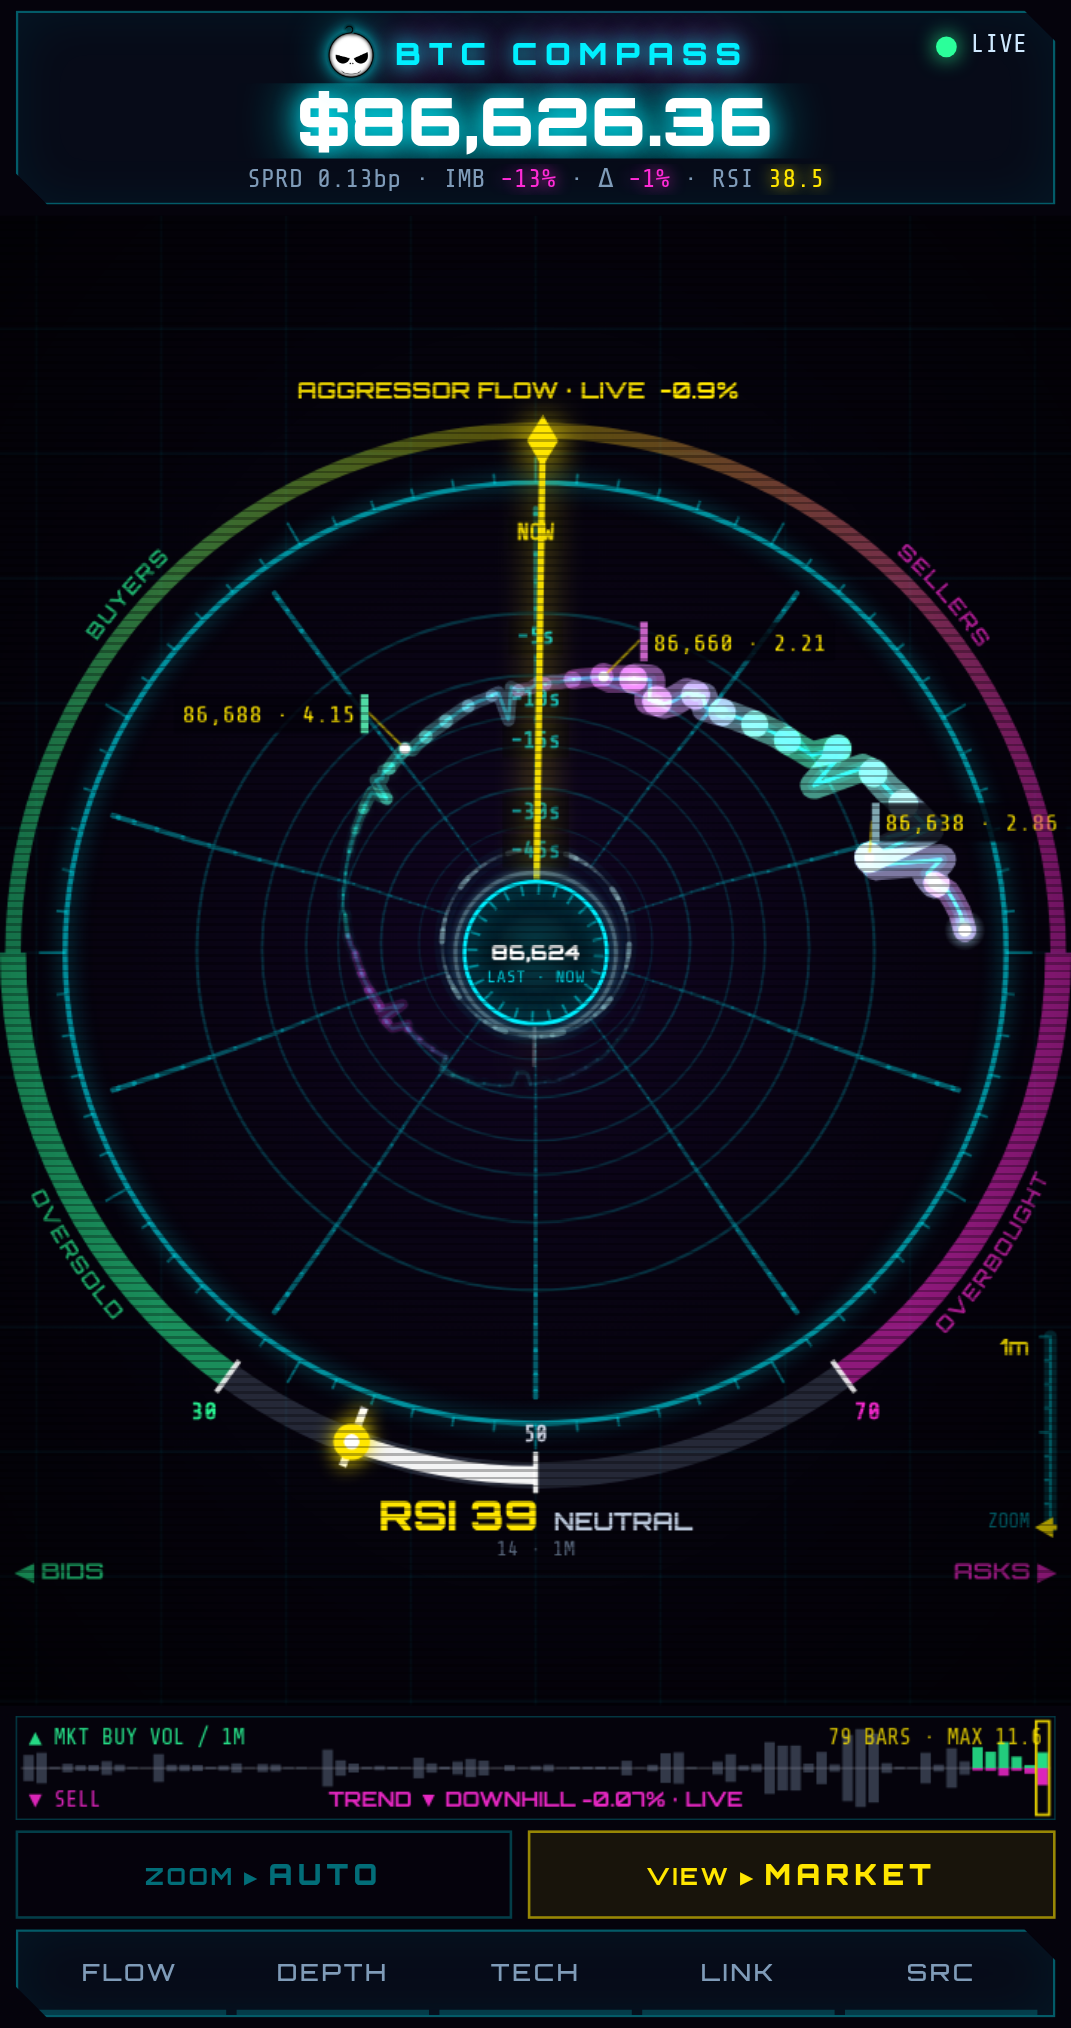
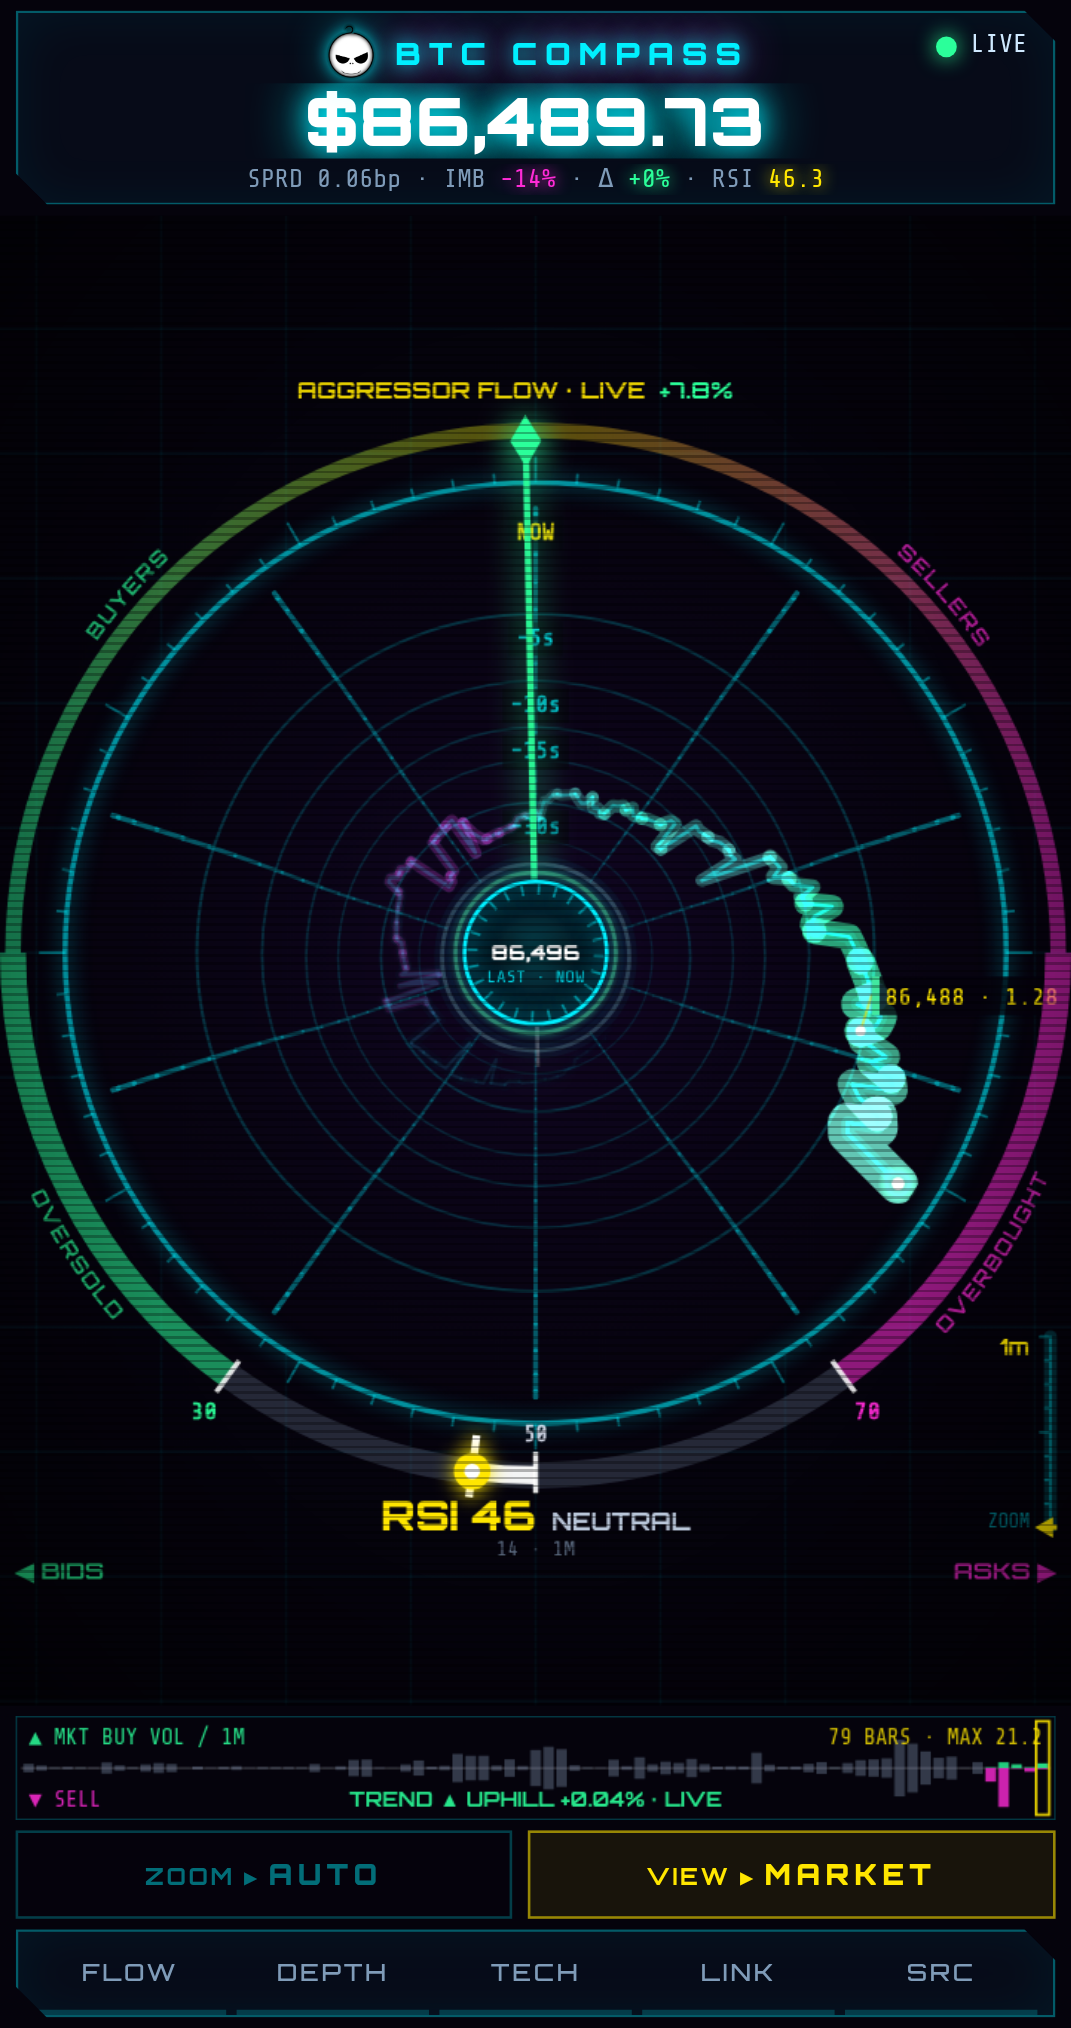
MARKET vortex ring: fixed size at all zooms (pinned to window end), smooth solid glow + soft CCW sweep; cache-busting build check

diff --git a/index.html b/index.html
@@ -2,6 +2,8 @@
 <html lang="en">
 <head>
 <meta charset="utf-8">
+<meta http-equiv="Cache-Control" content="no-cache, no-store, must-revalidate"><meta http-equiv="Pragma" content="no-cache"><meta http-equiv="Expires" content="0">
+<script>window.OFC_BUILD='20261002-1009';(function(){try{if(!/^https?:/.test(location.protocol))return;fetch(location.pathname+'?_='+Date.now(),{cache:'no-store'}).then(r=>r.text()).then(t=>{const m=t.match(/OFC_BUILD='([^']+)'/);if(m&&m[1]!==window.OFC_BUILD&&sessionStorage.getItem('ofcB')!==m[1]){sessionStorage.setItem('ofcB',m[1]);location.replace(location.pathname+'?v='+m[1]+location.hash);}}).catch(()=>{});}catch(e){}})();</script>
 <meta name="viewport" content="width=device-width,initial-scale=1,viewport-fit=cover,user-scalable=no">
 <meta name="theme-color" content="#05030c">
 <meta name="color-scheme" content="dark">
@@ -761,26 +763,23 @@ function drawGrid(t){
   ctx.font='10px "Share Tech Mono",monospace';ctx.textAlign='left';
   const MK=VIEW==='market', RINGS=MK?mRingAges().map(a=>({d:a*HIST_SEC/MWIN,maj:[30,60,90,120].includes(a)||a===mRingAges().slice(-1)[0]}))
                                   :Array.from({length:12},(_,i)=>({d:(i+1)*10,maj:(i+1)%3===0}));
-  for(const RG of RINGS){if(MK&&RG===RINGS[RINGS.length-1])continue;const p=proj(RG.d),s=p.s,fade=Math.pow(s,0.8);
+  for(const RG of RINGS){if(MK&&RG.d>HIST_SEC-1)continue;const p=proj(RG.d),s=p.s,fade=Math.pow(s,0.8);
     if(Q>0){ctx.strokeStyle=`rgba(0,240,255,${0.03+0.06*fade})`;ctx.lineWidth=2+6*s;ctx.beginPath();ctx.arc(p.x,p.y,TR*s,0,Math.PI*2);ctx.stroke();}
     ctx.strokeStyle=`rgba(0,240,255,${0.05+(RG.maj?0.30:0.18)*fade})`;ctx.lineWidth=0.5+(RG.maj?1.4:0.9)*s;
     ctx.beginPath();ctx.arc(p.x,p.y,TR*s,0,Math.PI*2);ctx.stroke();
   }
-  if(MK&&RINGS.length){ // vortex: innermost ring glows + spins (comet-dash texture); spin ramps with zoom: ~0 at 60 s -> slight at 15 s / burst, eased
-    const RG=RINGS[RINGS.length-1],p=proj(RG.d),rr=TR*p.s, TAU=Math.PI*2;   // fixed size (no shrink)
-    const g=VSP.w, k=(0.6+0.4*g)*(0.85+0.15*Math.sin(t/300));
-    ctx.save();ctx.lineCap='round';ctx.shadowColor='rgba(0,240,255,1)';ctx.shadowBlur=Q>0?14+8*g:0;
+  if(MK){ // vortex: smooth solid glowing ring pinned at the window end (constant depth d=HIST_SEC -> same on-screen size at every zoom 60 s..15 s / burst);
+    // spin shown by a soft brighter arc sweeping counter-clockwise (speed/brightness ramp with VSP.w); no dots/dashes
+    const p=proj(HIST_SEC),rr=TR*p.s, TAU=Math.PI*2;
+    const g=VSP.w, k=(0.6+0.4*g)*(0.88+0.12*Math.sin(t/400));
+    ctx.save();ctx.lineCap='butt';ctx.shadowColor='rgba(0,240,255,1)';ctx.shadowBlur=Q>0?14+8*g:0;
     ctx.strokeStyle=`rgba(0,240,255,${(0.10*k).toFixed(3)})`;ctx.lineWidth=6+3*g;ctx.beginPath();ctx.arc(p.x,p.y,rr,0,TAU);ctx.stroke();       // soft halo
-    ctx.strokeStyle=`rgba(170,250,255,${(0.32*k).toFixed(3)})`;ctx.lineWidth=1.3+0.5*g;ctx.beginPath();ctx.arc(p.x,p.y,rr,0,TAU);ctx.stroke();  // base ring
-    const N=10, seg=Math.min(0.12,14/Math.max(20,rr));            // comet dashes: bright head, tail trailing behind the motion
-    for(let i=0;i<N;i++){const a0=VSP.ph+i*TAU/N;
-      for(let j=0;j<4;j++){ctx.strokeStyle=`rgba(200,252,255,${(0.9*k*(1-j/4)).toFixed(3)})`;ctx.lineWidth=(2.1+0.9*g)*(1-j*0.15);
-        ctx.beginPath();ctx.arc(p.x,p.y,rr,a0+j*seg,a0+(j+1)*seg);ctx.stroke();}}
-    if(g>0.04){ctx.shadowBlur=0;ctx.lineWidth=1.1;                // subtle inward swirl streaks toward the vanishing point
-      for(let i=0;i<6;i++){const a=VSP.ph*1.35+i*TAU/6;let px0=null,py0=null;
-        for(let q=0;q<=8;q++){const u=q/8,ang=a-u*1.2,rad=rr*(1-0.55*u),x=p.x+Math.cos(ang)*rad,y=p.y+Math.sin(ang)*rad;
-          if(px0!=null){ctx.strokeStyle=`rgba(0,240,255,${(0.28*g*(1-u)).toFixed(3)})`;ctx.beginPath();ctx.moveTo(px0,py0);ctx.lineTo(x,y);ctx.stroke();}
-          px0=x;py0=y;}}}
+    ctx.strokeStyle=`rgba(170,250,255,${(0.42*k).toFixed(3)})`;ctx.lineWidth=1.6+0.5*g;ctx.beginPath();ctx.arc(p.x,p.y,rr,0,TAU);ctx.stroke();  // solid base ring
+    const A=0.15+0.6*g; if(A>0.02){ctx.shadowBlur=Q>0?10+10*g:0;   // two opposed soft sweeps: bright leading edge, long smooth fade behind (CCW motion)
+      const NS2=96;for(let i=0;i<NS2;i++){const a0=i*TAU/NS2,a1=a0+TAU/NS2+0.004,am=(a0+a1)/2;
+        let f=0;for(let h=0;h<2;h++){const dd=(((am-VSP.ph-h*Math.PI)%TAU)+TAU)%TAU;f=Math.max(f,dd<=Math.PI?Math.exp(-dd/0.9):Math.exp(-(TAU-dd)/0.12));}
+        if(f<0.02)continue;ctx.strokeStyle=`rgba(210,253,255,${(A*f*k).toFixed(3)})`;ctx.lineWidth=(1.8+1.2*g)*(0.7+0.3*f);
+        ctx.beginPath();ctx.arc(p.x,p.y,rr,a0,a1);ctx.stroke();}}
     ctx.restore();}
   // time labels at the top of each ring, nearest-first, skipped on collision (hub / earlier label / reserved)
   // MARKET: NOW at the mouth (newest trade) -> older inward.  LIMIT: NOW at the vanishing point -> older outward to the ring.
@@ -1470,7 +1469,7 @@ function frame(){
 connect();seedREST();
 requestAnimationFrame(frame);
 document.addEventListener('visibilitychange',()=>{if(!document.hidden&&(!ws||ws.readyState>1)){backoff=1000;connect();}});
-window.__ofc={get vring(){if(VIEW!=='market')return null;const R=mRingAges(),d=R[R.length-1]*HIST_SEC/MWIN,p=proj(d);return {full:+(RMAX*p.s).toFixed(1),r:+(RMAX*p.s).toFixed(1),x:Math.round(p.x),y:Math.round(p.y),R0:Math.round(R0)}},get twist(){return VIEW==='market'?+(TWIST_MAX*VSP.w*180/Math.PI).toFixed(1):0},get spin(){return {w:+VSP.w.toFixed(3),ph:+VSP.ph.toFixed(3)}},zManual(){intro=null;setAuto(false);syncZA();},get burst(){return {...burst,now:Date.now()}},simBurst(usd){const px=trades.length?trades[trades.length-1].px:mid,n=Date.now();for(let k=0;k<8;k++)trades.push({t:n-(7-k)*300,side:k%2?'sell':'buy',qty:usd/8/px,px,v:'kraken'});trailDirty=true;},get auto(){return rangeAuto},zAuto(){intro=null;setAuto(true);syncZA();},zIn(){intro=null;setAuto(false);rangeFrac=zR(1);syncZA();},get mwin(){return +MWIN.toFixed(1)},get lwin(){return +LWIN.toFixed(1)},get prange(){return PRANGE},get disp(){return dispRange},get plbl(){return PLBL.map(q=>q.txt)},get hubTxt(){return mid?hubTxt():null},get head(){return {x:Math.round(TRHEAD.x),y:Math.round(TRHEAD.y),CX,CY,R0:Math.round(R0),RMAX:Math.round(RMAX)}},get logo(){const g=logoGeom();return g&&{x:Math.round(g.x),y:Math.round(g.y),S:g.S,CX,CY,RMAX,W,H,Z:zbarGeom()}},get ven(){return Object.fromEntries(Object.entries(VEN).map(([k,v])=>[k,{st:v.st,share:+v.share.toFixed(3),books:BOOKS.filter(B=>B.v===k).map(B=>({k:B.k,ready:B.ready,n:B.b.size+B.a.size,ck:B.ckOk,ckBad:B.ckBad,resyncs:B.resyncs}))}]))},get src(){return SRC},setSource,get comb(){return {ready:BREADY,mid,bestBid,bestAsk,nb:sortedB.length,na:sortedA.length}},get raw(){return RAW.length},get flow(){const f=flow(30);return {b:Math.round(f.b),s:Math.round(f.s),r:+f.r.toFixed(3)}},get trendW(){return trendWin()},get win(){return winSec},get heatN(){return Object.fromEntries(Object.entries(HEATS).map(([w,H])=>[w,H.m.size]))},get intro(){return intro},book,get mid(){return mid},get ck(){return {ckOk,ckBad,ckLast}},get trades(){return tradeCount},get bubbles(){return bubbles.length},get hist(){return history.length},get ind(){return ind},get candles(){return candles.size},get dir(){return INBOUND?'in':'out'},get view(){return VIEW},get layout(){return {W,H,CX,CY,RMAX,R0,WIDE}},get tunnel(){const far=proj(HIST_SEC);return {FOCAL,farScale:far.s,farY:far.y-CY,dispRange,fitFrac,rangeAuto,RMAX}},zoom(f){setAuto(false);rangeFrac=Math.min(0.08,Math.max(0.0005,rangeFrac*f));},autoZoom(){setAuto(true);},get autoOn(){return rangeAuto},get zgeom(){return zbarGeom()},get conn(){return connState},get fps(){return FPS},get q(){return Q},get rc(){return reconnects},forceDrop(){ws&&ws.close();}};
+window.__ofc={winTo(S){intro=null;setAuto(false);syncZA();let lo=0,hi=1;const f=u=>mWinOf(zR(u));const dec=f(0)>f(1);for(let i=0;i<40;i++){const m=(lo+hi)/2;if((f(m)>S)===dec)lo=m;else hi=m;}rangeFrac=zR((lo+hi)/2);return f((lo+hi)/2);},get vring(){if(VIEW!=='market')return null;const p=proj(HIST_SEC);return {full:+(RMAX*p.s).toFixed(1),r:+(RMAX*p.s).toFixed(1),x:Math.round(p.x),y:Math.round(p.y),R0:Math.round(R0)}},get twist(){return VIEW==='market'?+(TWIST_MAX*VSP.w*180/Math.PI).toFixed(1):0},get spin(){return {w:+VSP.w.toFixed(3),ph:+VSP.ph.toFixed(3)}},zManual(){intro=null;setAuto(false);syncZA();},get burst(){return {...burst,now:Date.now()}},simBurst(usd){const px=trades.length?trades[trades.length-1].px:mid,n=Date.now();for(let k=0;k<8;k++)trades.push({t:n-(7-k)*300,side:k%2?'sell':'buy',qty:usd/8/px,px,v:'kraken'});trailDirty=true;},get auto(){return rangeAuto},zAuto(){intro=null;setAuto(true);syncZA();},zIn(){intro=null;setAuto(false);rangeFrac=zR(1);syncZA();},get mwin(){return +MWIN.toFixed(1)},get lwin(){return +LWIN.toFixed(1)},get prange(){return PRANGE},get disp(){return dispRange},get plbl(){return PLBL.map(q=>q.txt)},get hubTxt(){return mid?hubTxt():null},get head(){return {x:Math.round(TRHEAD.x),y:Math.round(TRHEAD.y),CX,CY,R0:Math.round(R0),RMAX:Math.round(RMAX)}},get logo(){const g=logoGeom();return g&&{x:Math.round(g.x),y:Math.round(g.y),S:g.S,CX,CY,RMAX,W,H,Z:zbarGeom()}},get ven(){return Object.fromEntries(Object.entries(VEN).map(([k,v])=>[k,{st:v.st,share:+v.share.toFixed(3),books:BOOKS.filter(B=>B.v===k).map(B=>({k:B.k,ready:B.ready,n:B.b.size+B.a.size,ck:B.ckOk,ckBad:B.ckBad,resyncs:B.resyncs}))}]))},get src(){return SRC},setSource,get comb(){return {ready:BREADY,mid,bestBid,bestAsk,nb:sortedB.length,na:sortedA.length}},get raw(){return RAW.length},get flow(){const f=flow(30);return {b:Math.round(f.b),s:Math.round(f.s),r:+f.r.toFixed(3)}},get trendW(){return trendWin()},get win(){return winSec},get heatN(){return Object.fromEntries(Object.entries(HEATS).map(([w,H])=>[w,H.m.size]))},get intro(){return intro},book,get mid(){return mid},get ck(){return {ckOk,ckBad,ckLast}},get trades(){return tradeCount},get bubbles(){return bubbles.length},get hist(){return history.length},get ind(){return ind},get candles(){return candles.size},get dir(){return INBOUND?'in':'out'},get view(){return VIEW},get layout(){return {W,H,CX,CY,RMAX,R0,WIDE}},get tunnel(){const far=proj(HIST_SEC);return {FOCAL,farScale:far.s,farY:far.y-CY,dispRange,fitFrac,rangeAuto,RMAX}},zoom(f){setAuto(false);rangeFrac=Math.min(0.08,Math.max(0.0005,rangeFrac*f));},autoZoom(){setAuto(true);},get autoOn(){return rangeAuto},get zgeom(){return zbarGeom()},get conn(){return connState},get fps(){return FPS},get q(){return Q},get rc(){return reconnects},forceDrop(){ws&&ws.close();}};
 })();
 </script>
 </body>
